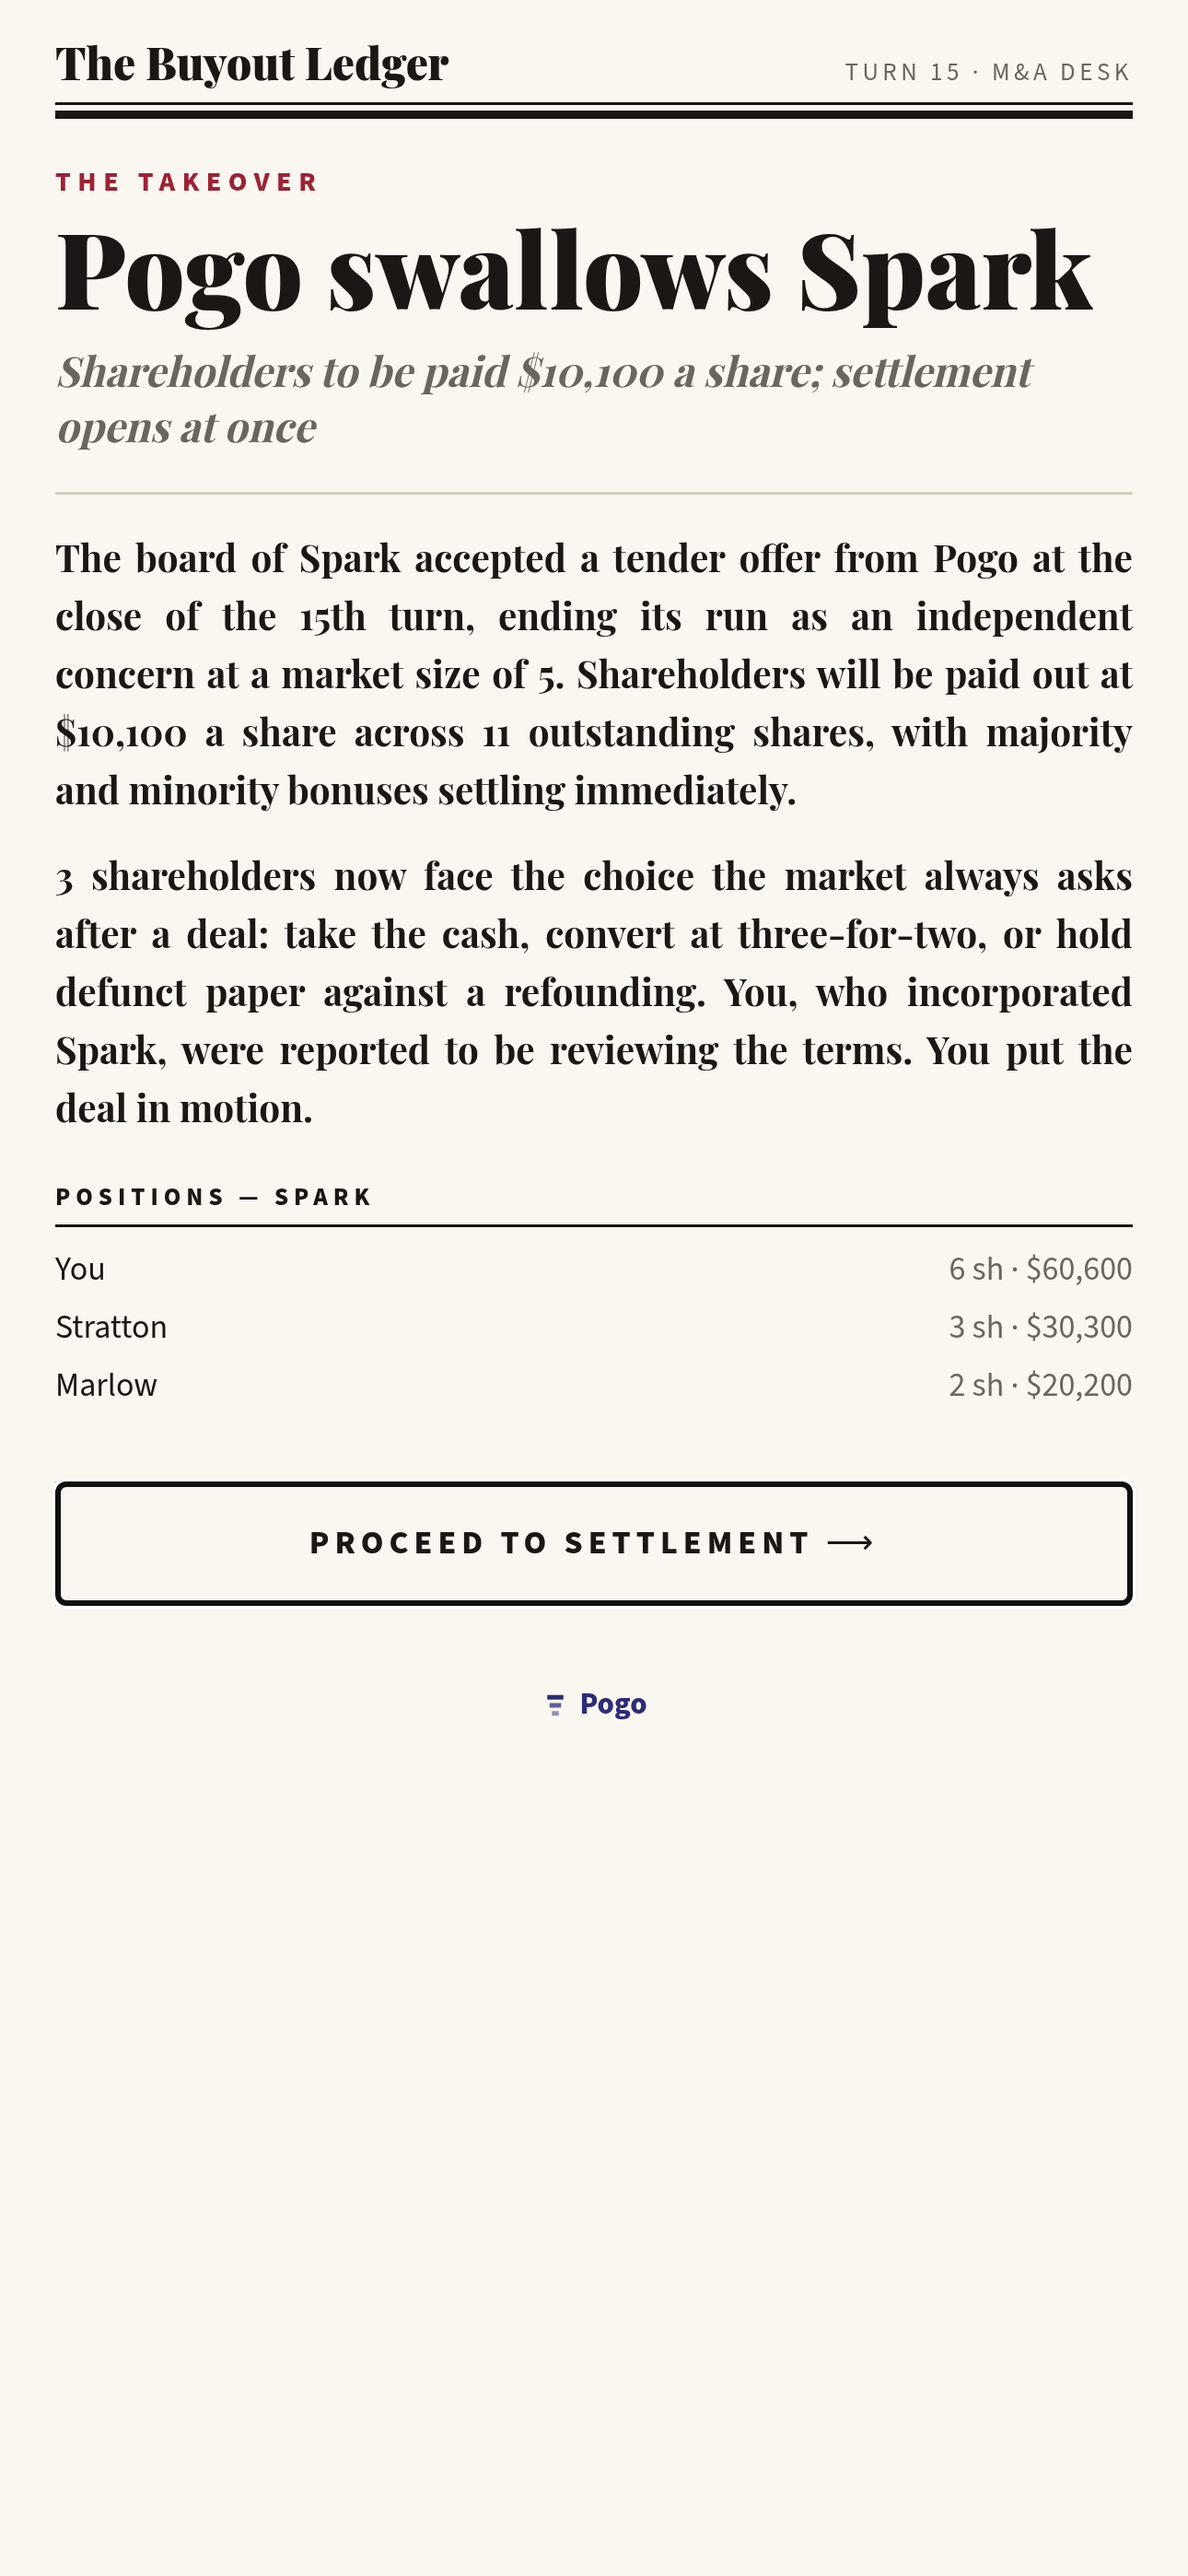
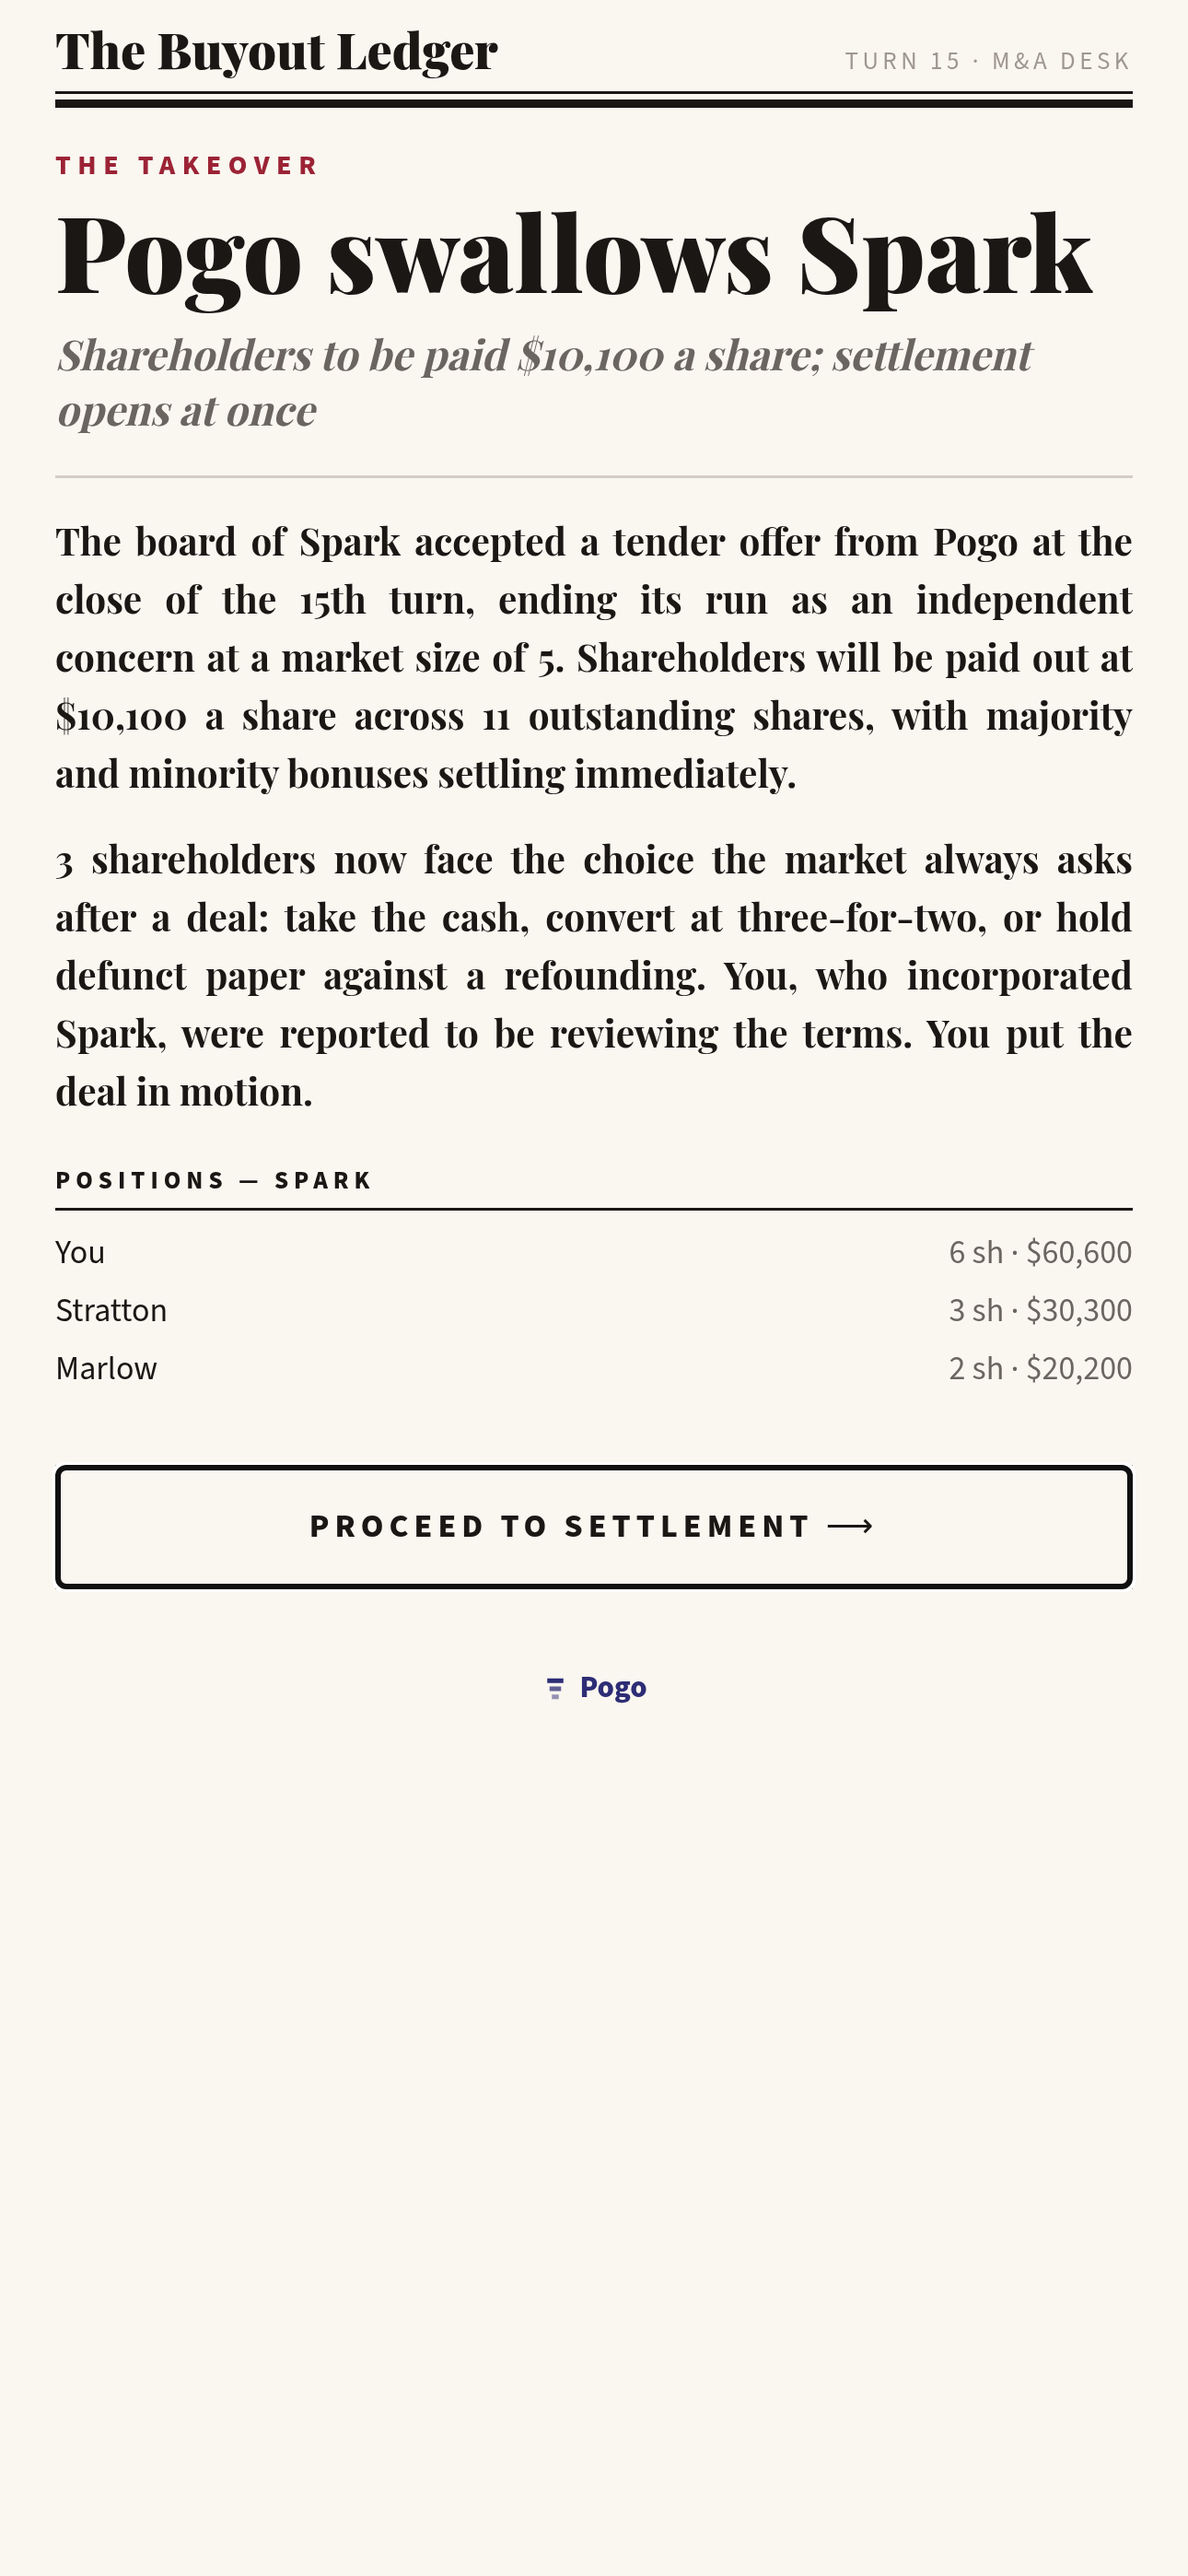
Unify mastheads: FrontPage + FinalEdition use StatusStrip/FadingMasthead (v0.4.3)
All full-screen pages now share one header system: solid paper strip under
the system clock, masthead fades as it rolls up, thick-thin rules. Removes
the one-off inverted-rule headers on the merger and final-edition pages.
Panels re-rendered from new captures.

Claude-Session: https://claude.ai/code/session_01T57B3Fm6YeDfj2dEqWztyP

Changed region(s): [[0.031, 0.0, 0.9612, 0.6223], [0.4651, 0.6534, 0.5581, 0.6845]]

diff --git a/mobile/src/components/FrontPage.tsx b/mobile/src/components/FrontPage.tsx
@@ -1,9 +1,9 @@
-import React from "react";
-import { Modal, ScrollView, Text, View } from "react-native";
-import { SafeAreaView } from "react-native-safe-area-context";
+import React, { useRef } from "react";
+import { Animated, Modal, Text, View } from "react-native";
+import { useSafeAreaInsets } from "react-native-safe-area-context";
 import { priceOf, type GameState } from "../engine";
 import { ACCENT, BD, BD2, BG, GRN, INK, INK2, INK3, RED, SANS, SANS_BLACK, SANS_SEMI, SERIF, SERIF_BOLD, money } from "../theme";
-import { CountUp, InkButton, PressIn, Wordmark } from "./common";
+import { CountUp, FadingMasthead, InkButton, PressIn, StatusStrip, Wordmark } from "./common";
 import type { AchievementDef } from "../store/stats";
 
 function ordinal(n: number) {
@@ -13,6 +13,8 @@ function ordinal(n: number) {
 
 /** Mergers arrive as a broadsheet front page, not a dialog. */
 export function FrontPage({ game, onDismiss }: { game: GameState; onDismiss: () => void }) {
+  const scrollY = useRef(new Animated.Value(0)).current;
+  const insets = useSafeAreaInsets();
   const ctx = game.mergerCtx;
   if (!ctx) return null;
   const dn0 = ctx.defuncts[ctx.di] ?? ctx.defuncts[0]!;
@@ -28,15 +30,19 @@ export function FrontPage({ game, onDismiss }: { game: GameState; onDismiss: () 
 
   return (
     <Modal visible animationType="fade" onRequestClose={onDismiss}>
-      <SafeAreaView style={{ flex: 1, backgroundColor: BG }}>
-      <ScrollView contentContainerStyle={{ padding: 20, paddingTop: 12 }}>
-        <PressIn>
-          <View style={{ flexDirection: "row", justifyContent: "space-between", alignItems: "baseline", borderBottomWidth: 1, borderBottomColor: INK, paddingBottom: 4 }}>
-            <Text style={{ fontFamily: SERIF, fontSize: 16, color: INK }}>The Buyout Ledger</Text>
-            <Text style={{ fontFamily: SANS, fontSize: 9, color: INK2, letterSpacing: 1.5, textTransform: "uppercase" }}>Turn {game.turn + 1} · M&A Desk</Text>
-          </View>
-          <View style={{ borderBottomWidth: 3, borderBottomColor: INK, marginTop: 2, marginBottom: 16 }} />
-        </PressIn>
+      <View style={{ flex: 1, backgroundColor: BG }}>
+      <StatusStrip />
+      <Animated.ScrollView
+        contentContainerStyle={{ padding: 20, paddingTop: insets.top + 6 }}
+        onScroll={Animated.event([{ nativeEvent: { contentOffset: { y: scrollY } } }], { useNativeDriver: true })}
+        scrollEventThrottle={16}
+      >
+        <FadingMasthead
+          scrollY={scrollY}
+          title="The Buyout Ledger"
+          right={<Text style={{ fontFamily: SANS, fontSize: 9, color: INK3, letterSpacing: 1.5, textTransform: "uppercase" }}>Turn {game.turn + 1} · M&A Desk</Text>}
+        />
+        <View style={{ marginBottom: 10 }} />
 
         <PressIn delay={80}>
           <Text style={{ fontFamily: SANS_BLACK, fontSize: 10, letterSpacing: 2.5, textTransform: "uppercase", color: RED, marginBottom: 4 }}>The Takeover</Text>
@@ -95,8 +101,9 @@ export function FrontPage({ game, onDismiss }: { game: GameState; onDismiss: () 
         <View style={{ marginTop: 4, alignItems: "center" }}>
           <Wordmark name={ctx.surv} size={11} />
         </View>
-      </ScrollView>
-      </SafeAreaView>
+        <View style={{ height: 30 }} />
+      </Animated.ScrollView>
+      </View>
     </Modal>
   );
 }
@@ -136,6 +143,8 @@ export function FinalEdition({ game, unlocked, onRestart, onQuit, onInspect }: {
   onQuit: () => void;
   onInspect: () => void;
 }) {
+  const scrollY = useRef(new Animated.Value(0)).current;
+  const insets = useSafeAreaInsets();
   const ranked = [...game.players].sort((a, b) => b.cash - a.cash);
   const winner = ranked[0]!;
   const runnerUp = ranked[1];
@@ -146,15 +155,19 @@ export function FinalEdition({ game, unlocked, onRestart, onQuit, onInspect }: {
     : landslide ? `${winner.name} runs away with it` : `${winner.name} takes the market`;
   return (
     <Modal visible animationType="fade" onRequestClose={onQuit}>
-      <SafeAreaView style={{ flex: 1, backgroundColor: BG }}>
-        <ScrollView contentContainerStyle={{ padding: 20, paddingTop: 12 }}>
-          <PressIn>
-            <View style={{ flexDirection: "row", justifyContent: "space-between", alignItems: "baseline", borderBottomWidth: 1, borderBottomColor: INK, paddingBottom: 4 }}>
-              <Text style={{ fontFamily: SERIF, fontSize: 16, color: INK }}>The Buyout Ledger</Text>
-              <Text style={{ fontFamily: SANS, fontSize: 9, color: INK2, letterSpacing: 1.5, textTransform: "uppercase" }}>After {game.turn} turns</Text>
-            </View>
-            <View style={{ borderBottomWidth: 3, borderBottomColor: INK, marginTop: 2, marginBottom: 14 }} />
-          </PressIn>
+      <View style={{ flex: 1, backgroundColor: BG }}>
+        <StatusStrip />
+        <Animated.ScrollView
+          contentContainerStyle={{ padding: 20, paddingTop: insets.top + 6 }}
+          onScroll={Animated.event([{ nativeEvent: { contentOffset: { y: scrollY } } }], { useNativeDriver: true })}
+          scrollEventThrottle={16}
+        >
+          <FadingMasthead
+            scrollY={scrollY}
+            title="The Buyout Ledger"
+            right={<Text style={{ fontFamily: SANS, fontSize: 9, color: INK3, letterSpacing: 1.5, textTransform: "uppercase" }}>After {game.turn} turns</Text>}
+          />
+          <View style={{ marginBottom: 8 }} />
 
           <PressIn delay={80}>
             <Text style={{ fontFamily: SANS_BLACK, fontSize: 10, letterSpacing: 3, textTransform: "uppercase", color: RED, marginBottom: 4 }}>■ Final edition ■</Text>
@@ -201,8 +214,8 @@ export function FinalEdition({ game, unlocked, onRestart, onQuit, onInspect }: {
             </Text>
           </PressIn>
           <View style={{ height: 30 }} />
-        </ScrollView>
-      </SafeAreaView>
+        </Animated.ScrollView>
+      </View>
     </Modal>
   );
 }
